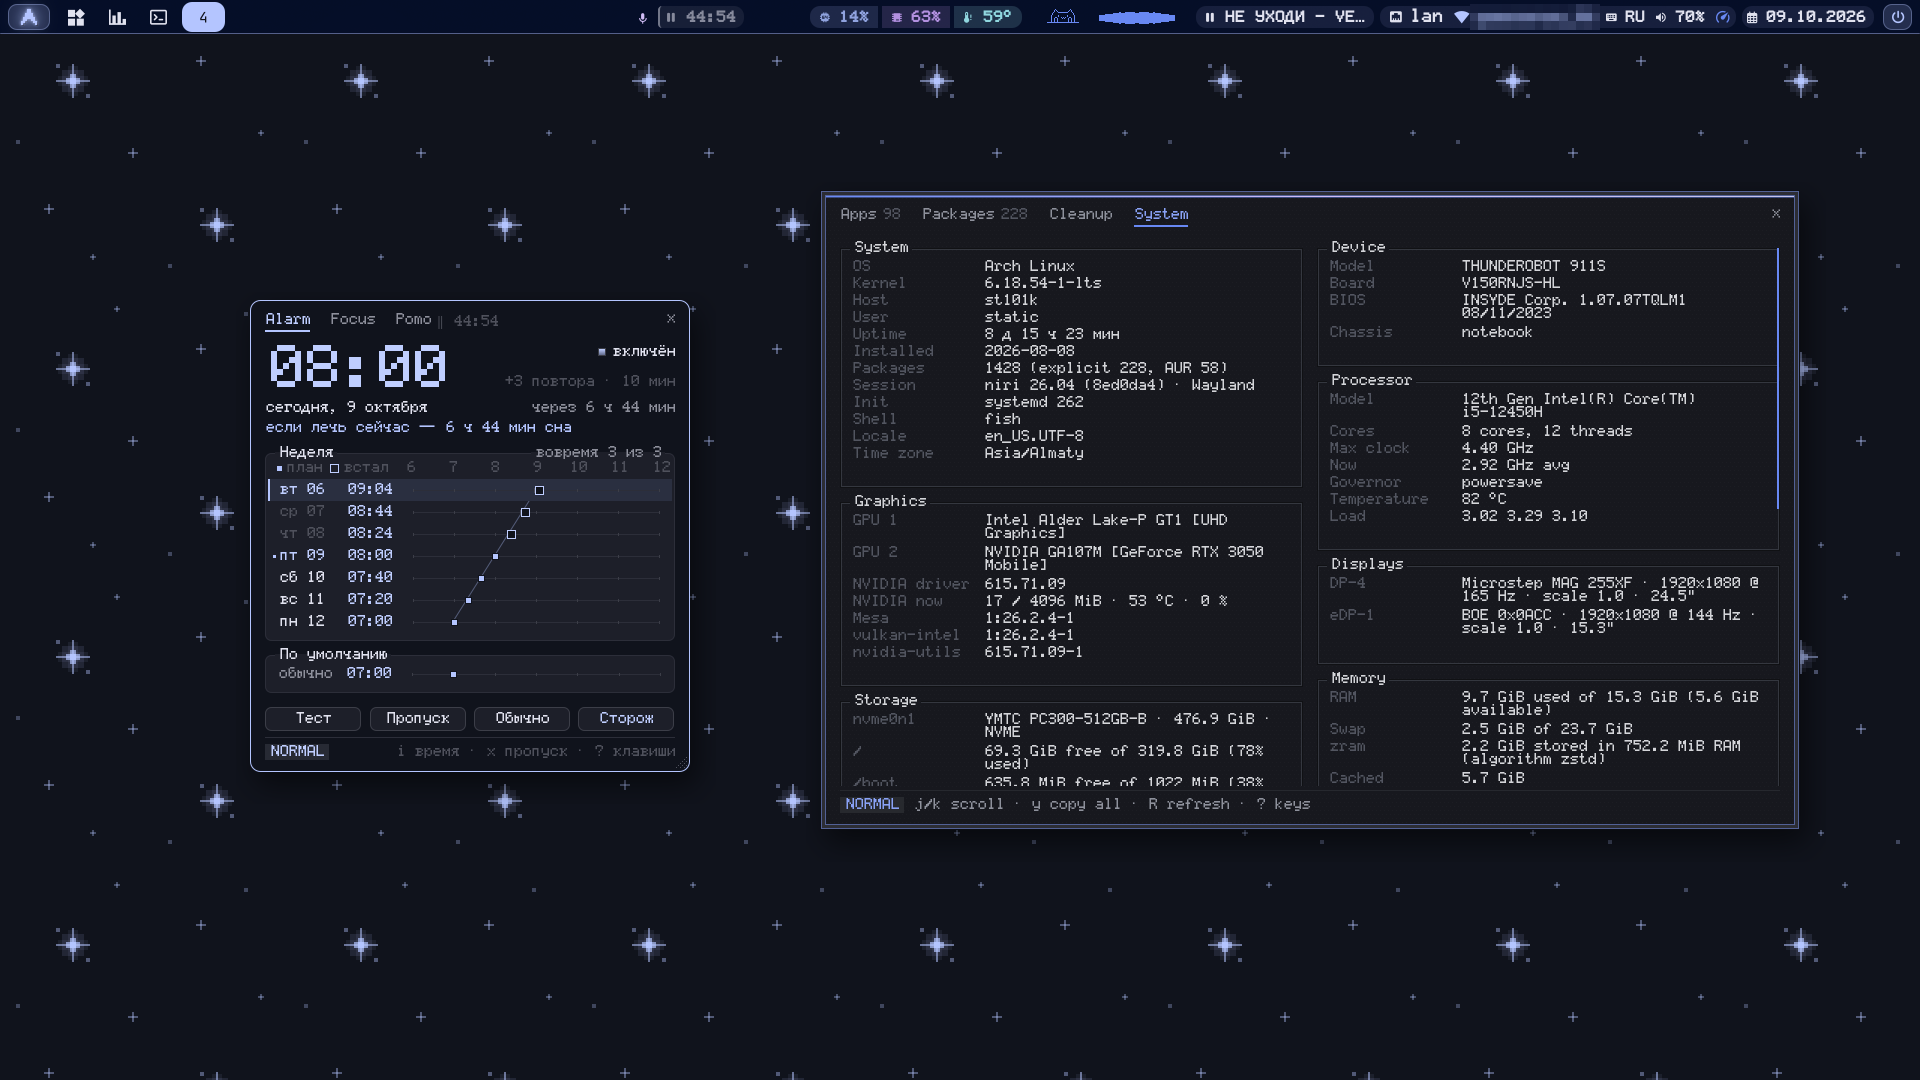
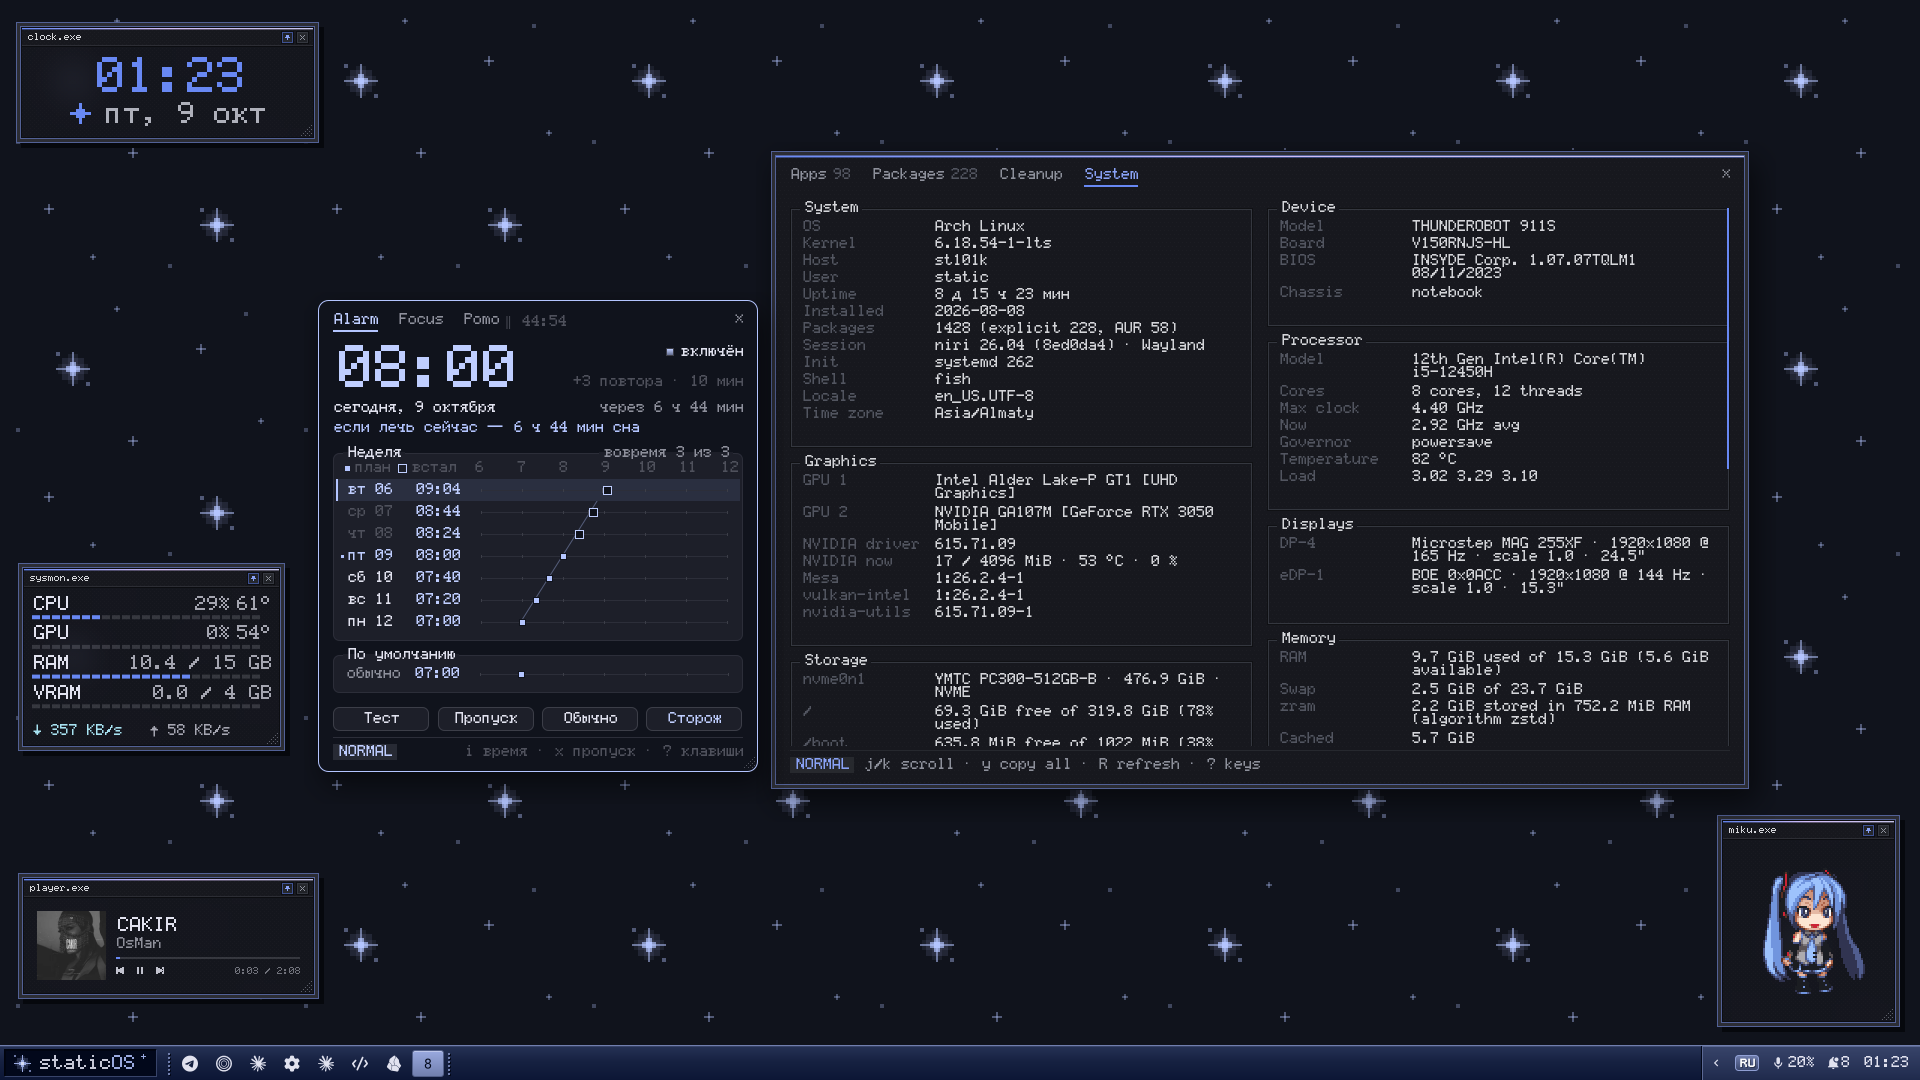
XP taskbar layout as the main screenshot

diff --git a/README.ru.md b/README.ru.md
@@ -45,6 +45,13 @@
 
 <p align="center"><i>Другая раскладка: виджеты на обоях и панель в духе XP с «Пуском» вместо верхнего бара.</i></p>
 
+<details>
+<summary>С верхним баром</summary>
+
+![staticOS с верхним баром](assets/desktop-bar.png)
+
+</details>
+
 | | |
 |:-:|:-:|
 | ![Discipline: будильник](assets/alarm.png) | ![Discipline: фокус](assets/focus.png) |

diff --git a/README.md b/README.md
@@ -45,6 +45,13 @@ Every color comes from your wallpaper.
 
 <p align="center"><i>The other layout: desktop widgets and an XP-style taskbar with a Start button instead of the top bar.</i></p>
 
+<details>
+<summary>With the top bar</summary>
+
+![staticOS with the top bar](assets/desktop-bar.png)
+
+</details>
+
 | | |
 |:-:|:-:|
 | ![Discipline: alarm](assets/alarm.png) | ![Discipline: focus](assets/focus.png) |
